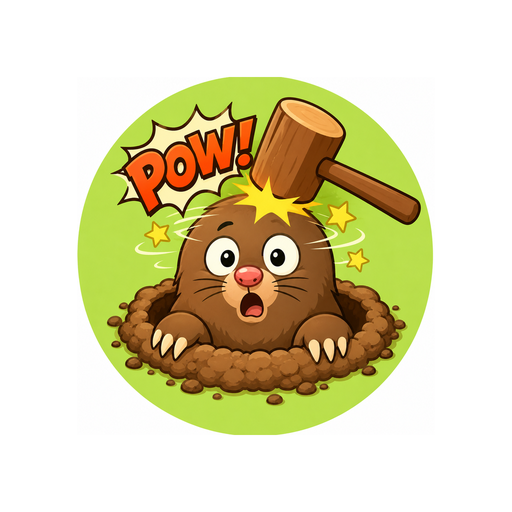
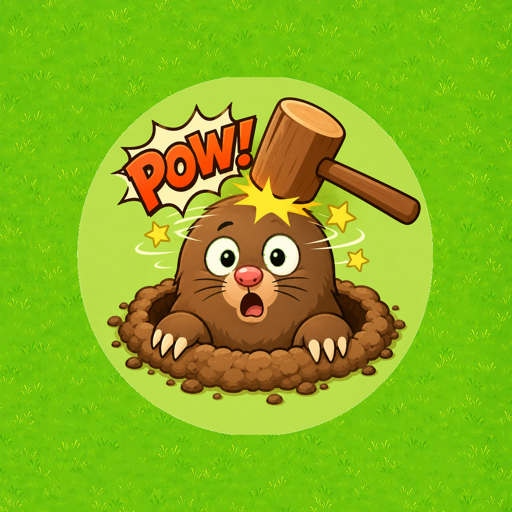
[改善] トップにアプリアイコンを追加＋モグラぽかぽかのアイコンを緑背景に修正
- index.html: 各アプリ名の左にアイコンを表示（.game-head/.game-icon）
- mole-whack/icon.png を緑square版に差し替え（白角解消、iPhone と同一）
- hotaru/icon.png・liquid-glow/icon.png を新規追加
- 内容変更した mole-whack/icon.png 参照にキャッシュバスティング付与

diff --git a/index.html b/index.html
@@ -90,6 +90,19 @@
     border-color: rgba(122, 176, 255, 0.50);
     transform: translateY(-2px);
   }
+  .game-head {
+    display: flex;
+    align-items: center;
+    gap: 16px;
+  }
+  .game-icon {
+    width: 56px;
+    height: 56px;
+    border-radius: 13px;
+    flex-shrink: 0;
+    display: block;
+    box-shadow: 0 4px 12px rgba(0, 0, 0, 0.35);
+  }
   .game-card a {
     color: #7ab0ff;
     text-decoration: none;
@@ -129,6 +142,7 @@
     .brand-icon { width: 104px; height: 104px; }
     .container { padding: 60px 24px; }
     .lang-switch { top: 16px; right: 16px; }
+    .game-icon { width: 48px; height: 48px; border-radius: 11px; }
   }
 </style>
 </head>
@@ -146,7 +160,10 @@
   <h2 data-i18n="games_heading">Games</h2>
   <ul class="game-list">
     <li class="game-card">
-      <a href="hotaru/" data-i18n="hotaru_title">HOTARU — The Lost House</a>
+      <div class="game-head">
+        <img class="game-icon" src="hotaru/icon.png" alt="">
+        <a href="hotaru/" data-i18n="hotaru_title">HOTARU — The Lost House</a>
+      </div>
       <div class="desc" data-i18n="hotaru_desc">A beautiful Japanese horror walking simulator. Follow the fireflies, gather them at the andon, hurl them at yokai — and find the back gate before dawn.</div>
       <div class="links">
         <a href="hotaru/privacy_policy.html" data-i18n="link_privacy">Privacy</a>
@@ -154,7 +171,10 @@
       </div>
     </li>
     <li class="game-card">
-      <a href="liquid-glow/">Liquid Glow</a>
+      <div class="game-head">
+        <img class="game-icon" src="liquid-glow/icon.png" alt="">
+        <a href="liquid-glow/">Liquid Glow</a>
+      </div>
       <div class="desc" data-i18n="lg_desc">A meditative sort puzzle. Pour glowing liquids between glass tubes and watch them flow through the cosmos.</div>
       <div class="links">
         <a href="liquid-glow/privacy_policy.html" data-i18n="link_privacy">Privacy</a>
@@ -162,7 +182,10 @@
       </div>
     </li>
     <li class="game-card">
-      <a href="mole-whack/" data-i18n="mw_title">モグラぽかぽか — Mole Whack</a>
+      <div class="game-head">
+        <img class="game-icon" src="mole-whack/icon.png?v=20260521172609" alt="">
+        <a href="mole-whack/" data-i18n="mw_title">モグラぽかぽか — Mole Whack</a>
+      </div>
       <div class="desc" data-i18n="mw_desc">A simple 30-second tap action. Whack the moles as they pop up and chase your high score.</div>
       <a class="appstore-badge" href="https://apps.apple.com/app/id6770864132" target="_blank" rel="noopener" aria-label="Download Mole Whack on the App Store">
         <svg viewBox="0 0 130 44" width="150" height="51" role="img" xmlns="http://www.w3.org/2000/svg">

diff --git a/mole-whack/overview.html b/mole-whack/overview.html
@@ -140,7 +140,7 @@
 <body>
 <div class="container">
   <div class="lang-switch"><select id="lang-select" aria-label="Language"></select></div>
-  <img src="icon.png" alt="Mole Whack icon" class="icon">
+  <img src="icon.png?v=20260521172609" alt="Mole Whack icon" class="icon">
   <div class="page-label" data-i18n="page_label">Game Overview</div>
   <h1>モグラぽかぽか</h1>
   <p class="lead" data-i18n="lead">Tap the moles within 30 seconds, reach each stage's target, and advance to the next — a stage-based tap action. 100 stages in all, getting faster as you go. A cozy little time-killer you can chip away at in spare moments.</p>

diff --git a/mole-whack/index.html b/mole-whack/index.html
@@ -214,7 +214,7 @@
 <body>
 <div class="container">
   <div class="lang-switch"><select id="lang-select" aria-label="Language"></select></div>
-  <img src="icon.png" alt="" class="icon">
+  <img src="icon.png?v=20260521172609" alt="" class="icon">
   <h1>モグラぽかぽか</h1>
   <div class="tagline">Mole Whack</div>
   <div class="subtitle" data-i18n="subtitle">Stage-based tap action</div>
